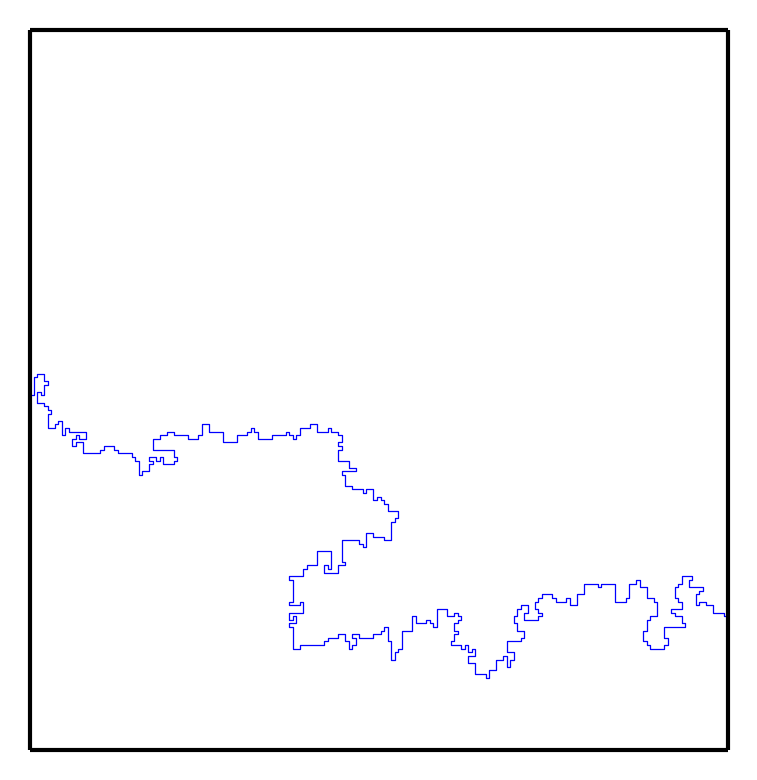
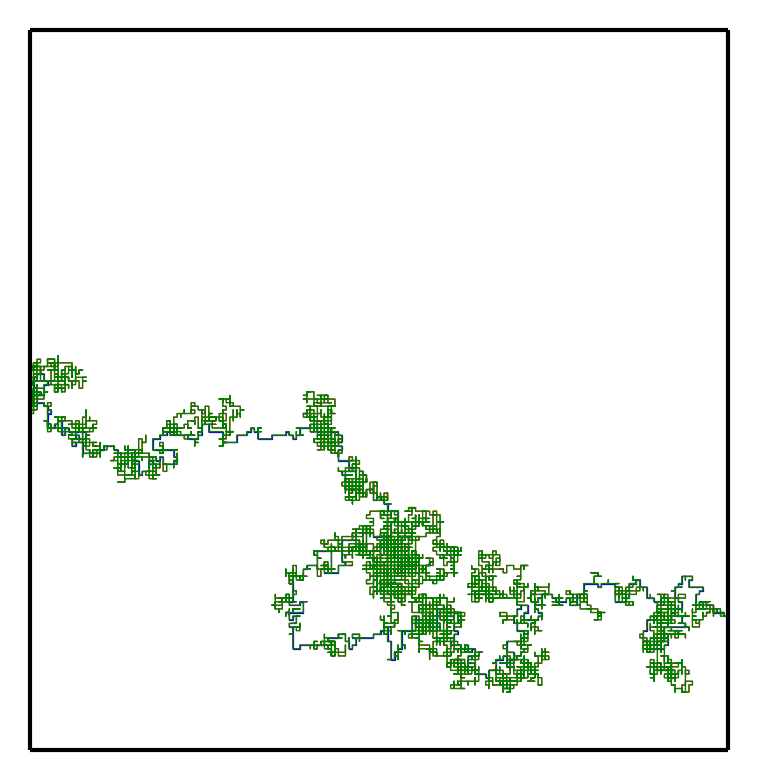
adding Bidirectional LERW

Changed region(s): [[0.0304, 0.4615, 0.9723, 0.8923]]

diff --git a/BD_LERW.py b/BD_LERW.py
@@ -1,0 +1,117 @@
+#!/usr/bin/python
+#
+# An implementation of a Bidirectional Loop Erased Random Walk (LERW)
+# from a cylinder with reflecting boundaries on the left
+# and open boundaries on the right.
+# PNG output of a single trajectory.
+# Habib Rehmann and Gunnar Pruessner
+#
+
+import random
+from numpy import cos, sin, radians
+import numpy as np
+import matplotlib.pyplot as plt
+
+seed = 10 # random seed
+Length = 200  # length of the cyclinder
+Circ = 200  # circumference of cyclinder
+x = 0   # x coordinate of starting location
+y = Circ / 2 # y coordinate of starting location. Origin is at centre of square
+s = 0  # Step number.
+
+trajectory = []   # List of the x coordinates of all points visited.
+lattice = np.zeros((Length, Circ), dtype=int) # (Length x Circ) 2D array of zeros
+random.seed(seed)
+
+# Generate a randomwalk
+while True:
+    s += 1
+    if (bool(random.getrandbits(1))):
+        if (bool(random.getrandbits(1))):
+            x += 1
+        else:
+            x -= 1
+    else:
+        if (bool(random.getrandbits(1))):
+            y += 1
+        else:
+            y -= 1
+
+    if (x >= Length):
+        break
+    elif (x < 0):
+        x = 0
+    if (y >= Circ):
+        y -= Circ
+    elif (y < 0):
+        y += Circ
+
+    lattice[x][y] += 1
+    trajectory.append((x, y))
+
+dpi = 300
+fig, ax = plt.subplots()
+fig.set_size_inches(3, Circ * 3. / Length)
+ax.set_xlim(0, Length - 1)
+ax.set_ylim(0, Circ - 1)
+ax.get_xaxis().set_visible(False)
+ax.get_yaxis().set_visible(False)
+
+plt.plot(*zip(*trajectory), color='r',linewidth=0.3)
+
+x0 = None
+y0 = None
+pos = 0
+lerw = trajectory[:]
+lcpy = lattice[:][:]
+print 'Length: ', len(lerw)
+print [lerw[0], lerw[len(lerw)-1]]
+print 'lattice[0][97]: ', lattice[0][97]
+# Loop erasure (tranversal from left to right)
+while pos < len(lerw):
+    x, y = lerw[pos]
+    if lcpy[x][y] > 1 and (not x0):
+        x0, y0 = x, y
+        pos0 = pos
+        # print("First repeated element ", pos0, x0, y0)
+    elif (x == x0) and (y == y0) and (lcpy[x][y] == 1):
+        # print("Deleting from ", pos0, " to ", pos)
+        del lerw[pos0:pos]
+        print 'Loop 1 delete from ', pos0, ' to ', pos
+        x0, y0 = None, None
+        pos = pos0
+    lcpy[x][y] -= 1
+    pos += 1
+
+plt.plot(*zip(*lerw), color='b',linewidth=0.3)
+
+lerw = trajectory[::-1]
+print 'Length: ', len(lerw)
+
+print [lerw[0], lerw[len(lerw)-1]]
+print 'lattice[0][97]: ', lattice[0][97]
+
+lcpy=lattice[:][:]
+x0 = None
+y0 = None
+pos=0
+while pos < len(lerw):
+    x, y = lerw[pos]
+    print x, y, lcpy[x][y]
+    if lcpy[x][y] > 1 and (not x0):
+        x0, y0 = x, y
+        pos0 = pos
+        print("First repeated element ", pos0, x0, y0)
+    elif (x == x0) and (y == y0) and (lcpy[x][y] == 1):
+        # print("Deleting from ", pos0, " to ", pos)
+        del lerw[pos0:pos]
+        print 'Loop 2 delete from ', pos0, ' to ', pos
+        x0, y0 = None, None
+        pos = pos0
+    lcpy[x][y] -= 1
+    pos += 1
+
+plt.plot(*zip(*lerw), color='g',linewidth=0.3)
+
+# Plot random walk
+plt.savefig("RandomWalk.png", bbox_inches="tight", dpi=dpi)

diff --git a/walks/RWandLERW.py b/walks/RWandLERW.py
@@ -1,0 +1,83 @@
+#!/usr/bin/python
+#
+# An implementation of a Loop Erased Random Walk (LERW)
+# from a cylinder with reflecting boundaries on the left
+# and open boundaries on the right.
+# PNG output of a single trajectory.
+# Habib Rehmann and Gunnar Pruessner
+#
+
+import random
+from numpy import cos, sin, radians
+import numpy as np
+import matplotlib.pyplot as plt
+
+seed = 10 # random seed
+Length = 200  # length of the cyclinder
+Circ = 200  # circumference of cyclinder
+x = 0   # x coordinate of starting location
+y = Circ / 2 # y coordinate of starting location. Origin is at centre of square
+s = 0  # Step number.
+
+trajectory = []   # List of the x coordinates of all points visited.
+lattice = np.zeros((Length, Circ), dtype=int) # (Length x Circ) 2D array of zeros
+random.seed(seed)
+
+# Generate a randomwalk
+while True:
+    s += 1
+    if (bool(random.getrandbits(1))):
+        if (bool(random.getrandbits(1))):
+            x += 1
+        else:
+            x -= 1
+    else:
+        if (bool(random.getrandbits(1))):
+            y += 1
+        else:
+            y -= 1
+
+    if (x >= Length):
+        break
+    elif (x < 0):
+        x = 0
+    if (y >= Circ):
+        y -= Circ
+    elif (y < 0):
+        y += Circ
+
+    lattice[x][y] += 1
+    trajectory.append((x, y))
+
+x0 = None
+y0 = None
+pos = 0
+
+dpi = 500
+fig, ax = plt.subplots()
+fig.set_size_inches(3, Circ * 3. / Length)
+ax.set_xlim(0, Length - 1)
+ax.set_ylim(0, Circ - 1)
+ax.get_xaxis().set_visible(False)
+ax.get_yaxis().set_visible(False)
+plt.plot(*zip(*trajectory), color="r", linewidth=0.2)
+
+# Loop erasure
+while pos < len(trajectory):
+    x, y = trajectory[pos]
+    if lattice[x][y] > 1 and (not x0):
+        x0, y0 = x, y
+        pos0 = pos
+        # print("First repeated element ", pos0, x0, y0)
+    elif (x == x0) and (y == y0) and (lattice[x][y] == 1):
+        # print("Deleting from ", pos0, " to ", pos)
+        del trajectory[pos0:pos]
+        x0, y0 = None, None
+        pos = pos0
+    lattice[x][y] -= 1
+    pos += 1
+
+# Plot random walk
+
+plt.plot(*zip(*trajectory), linewidth=0.3)
+plt.savefig("RandomWalk.png", bbox_inches="tight", dpi=dpi)

diff --git a/README.md b/README.md
@@ -1,2 +1,11 @@
 # RandomWalk
 An implementation of a random walk in python
+
+  [Restored contents truncated]
+
+To consider:
+1. Statistics of enclosed area between bidirectional LERWs
+2. Statistics of the area
+3. Statistics of intersections
+4. Average distribution/variance of the number of intersections
+5. Average eccentricity of ellipse
